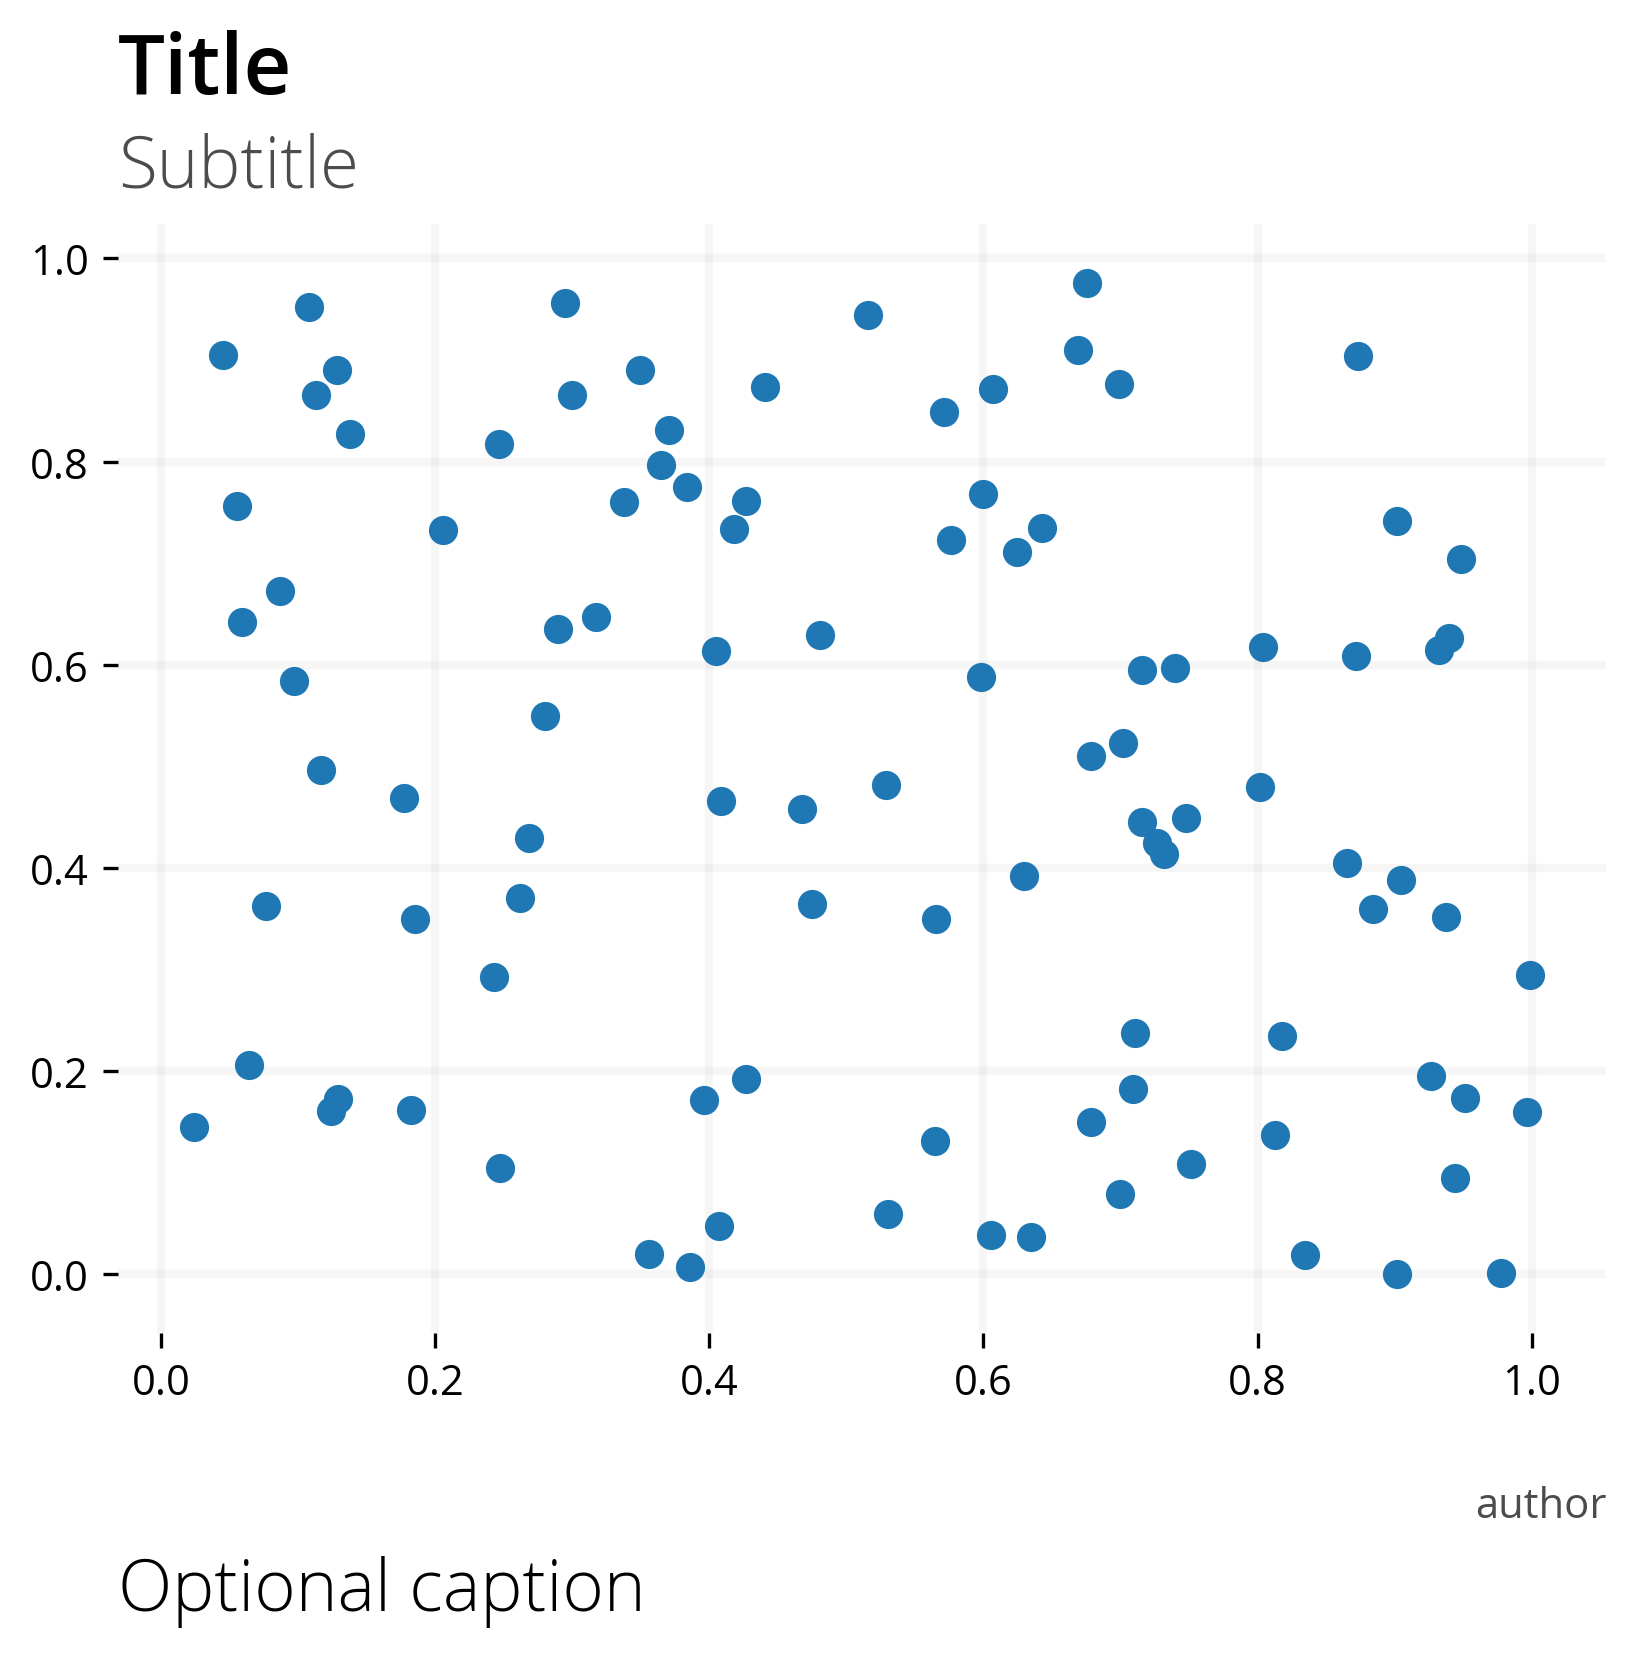
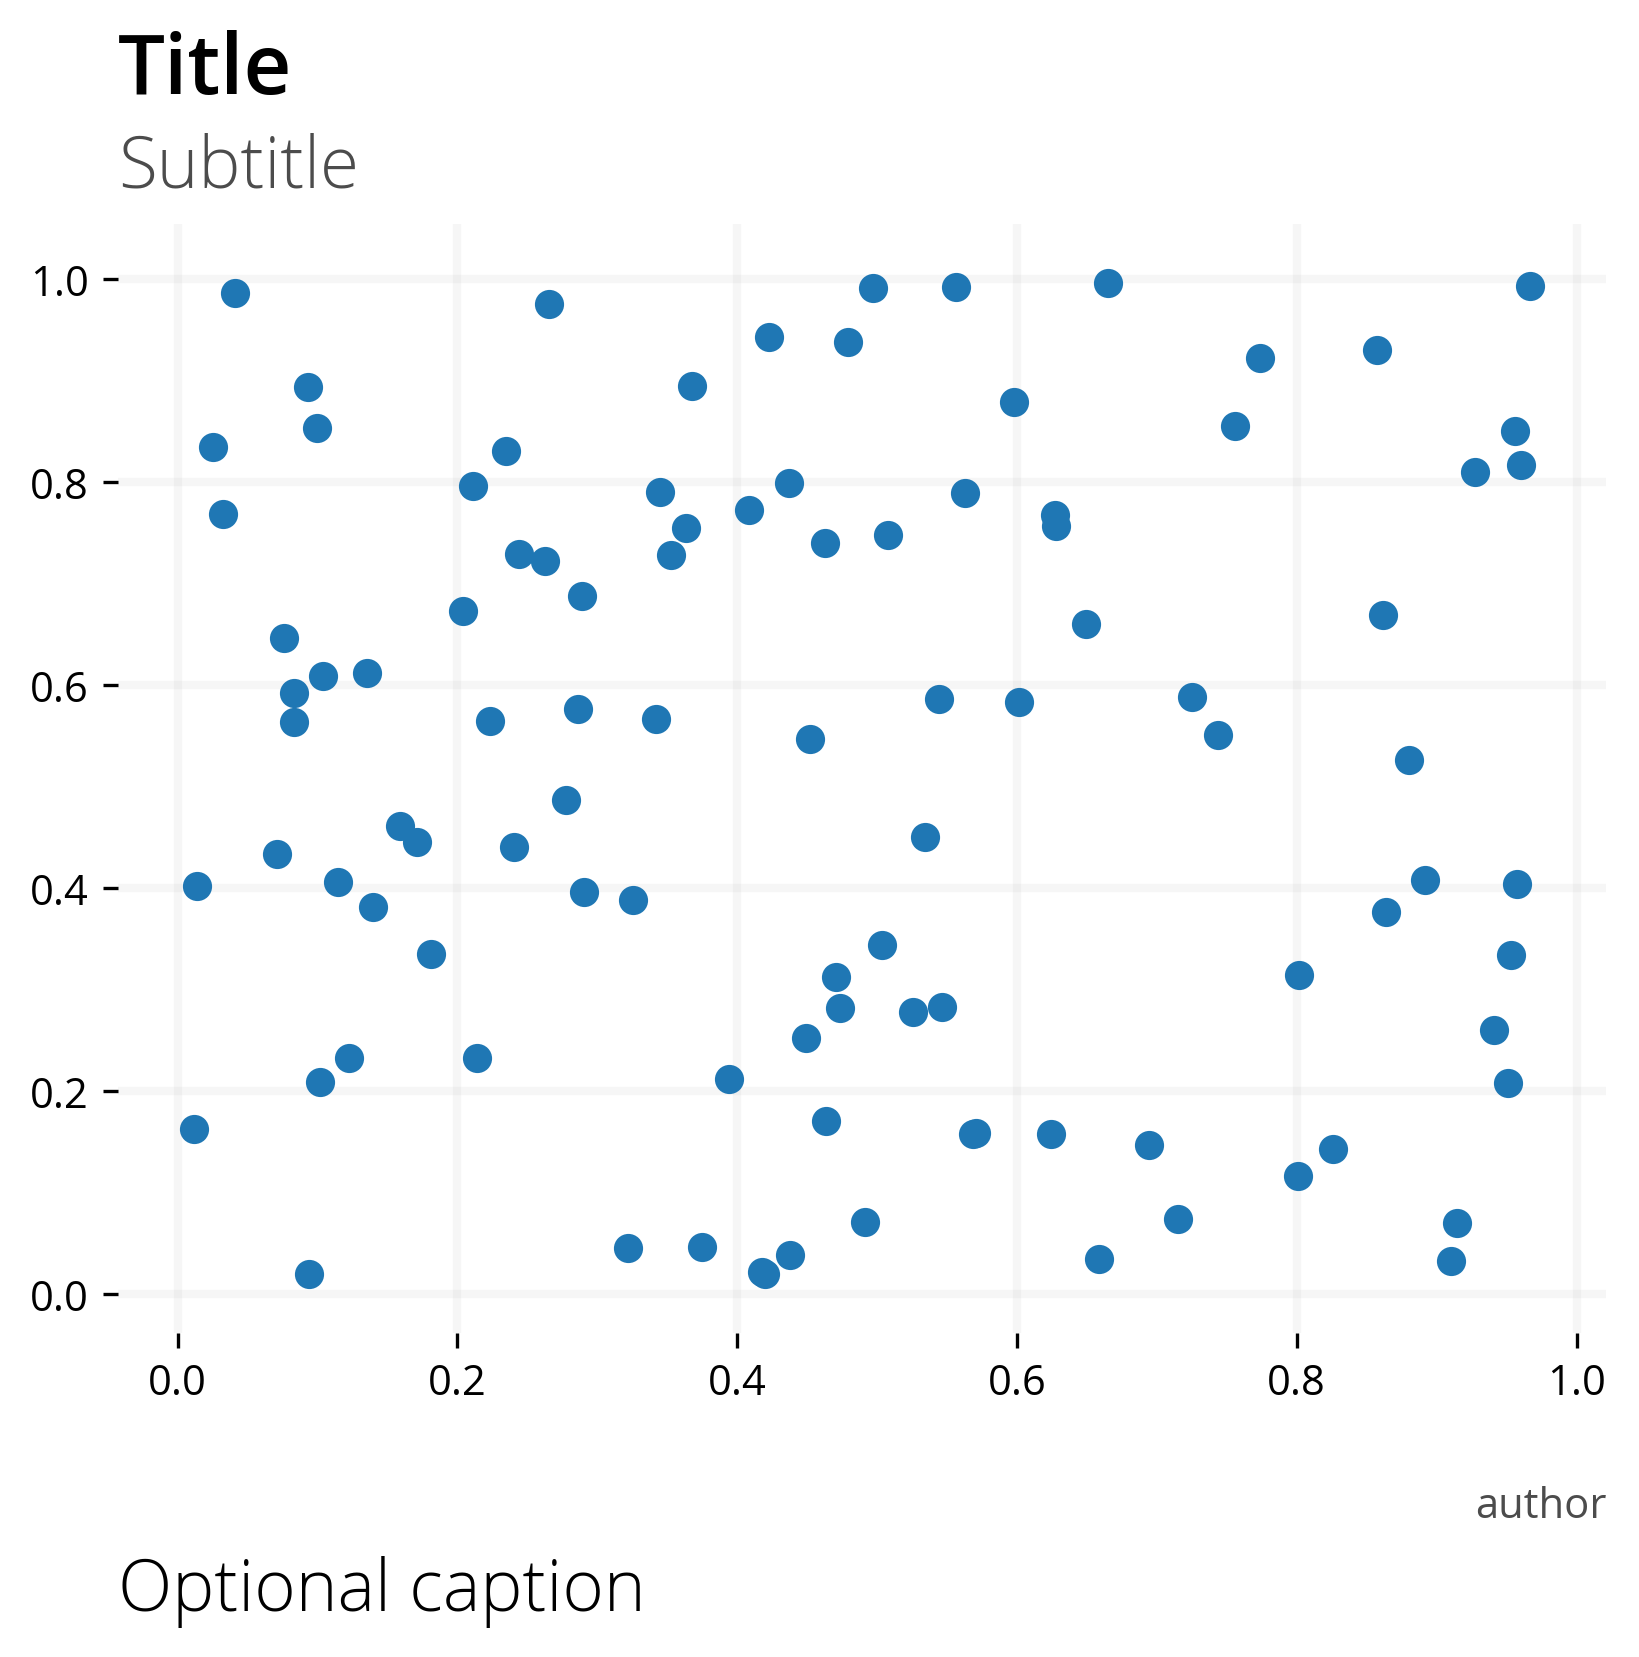
some minor changes, subtitle now optional

diff --git a/personal_plot/__init__.py b/personal_plot/__init__.py
@@ -1,21 +1,20 @@
 import matplotlib as mpl
-DEFAULT_AUTHOR = "Sebastián Aedo – http://saedo.me"
 
-def set_title(ax, title, subtitle, caption='', author=DEFAULT_AUTHOR):
+def set_title(ax, title, subtitle='', caption='', author=''):
     """ Custom title format
 
     @ax: ax object.
-    @title, @subtitle: self-explained
+    @title: self-explained.
+    @subtitle (optional): self-explained.
     @caption (optional): write text below the plot.
-    @author: author text.
+    @author (optional): author text.
     """
+
     scale = 8/ax.figure.get_figheight()
 
-    delta = 0
-    va = 'top'
-    if subtitle != "":
-        delta = 0.01
-        va = 'bottom'
+    # va is vertical alignment.
+    # it needs to be different if the subtitle isn't set.
+    delta, va = (0, 'top') if not subtitle else (0.01, 'bottom')
 
     # bigger title
     ax.text(0, 1 + (.05 + delta)*scale,

diff --git a/example/t.py b/example/t.py
@@ -2,6 +2,8 @@ import matplotlib.pyplot as plt
 import personal_plot as pp
 import numpy as np
 
+pp.set()
+
 fig, ax = plt.subplots()
 
 ax.scatter(np.random.uniform(size=100), np.random.uniform(size=100))
